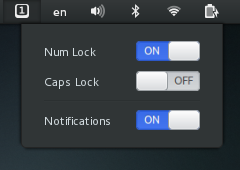
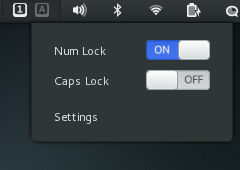
extension review

diff --git a/lockkeys@vaina.lt/extension.js b/lockkeys@vaina.lt/extension.js
@@ -20,11 +20,6 @@ const ExtensionUtils = imports.misc.extensionUtils;
 const Meta = ExtensionUtils.getCurrentExtension();
 const Utils = Meta.imports.utils;
 
-//GS 3.4 and 3.6 compatibility
-const StatusArea = Main.panel.statusArea ? Main.panel.statusArea : Main.panel._statusArea;
-const MenuManager = Main.panel.menuManager ? Main.panel.menuManager : Main.panel._menus;
-const RightBox = Main.panel._rightBox;
-
 
 const STYLE = 'style';
 const STYLE_NUMLOCK = 'numlock';
@@ -43,39 +38,15 @@ function init() {
 }
 
 function enable() {
-	indicator = new LockKeysIndicator();
-	
-	//this approach does not work on GS 3.6
-	indicator.actor.reparent(RightBox);
-	RightBox.remove_actor(indicator.actor);
-	RightBox.insert_child_at_index(indicator.actor,  _getPreferredIndex());
-
-	MenuManager.addMenu(indicator.menu);
+	indicator = new LockKeysIndicator();	
+	Main.panel.addToStatusArea('lockkeys', indicator, 2);
 	indicator.setActive(true);
 }
 
 function disable() {
 	indicator.setActive(false);
-	MenuManager.removeMenu(indicator.menu);
-	RightBox.remove_actor(indicator.actor);
+	indicator.destroy();
 }
-
-function _getPreferredIndex() {
-	//just before xkb layout indicator
-	if (StatusArea['keyboard']) {
-		let xkb = StatusArea['keyboard'];
-		
-		let i;
-		let children = RightBox.get_children();
-		for (i = children.length - 1; i >= 0; i--) {
-			if(xkb == children[i]._delegate){
-				return i;
-			}
-		}
-	}
-	return 0;
-}
-
 
 function LockKeysIndicator() {
 	this._init();
